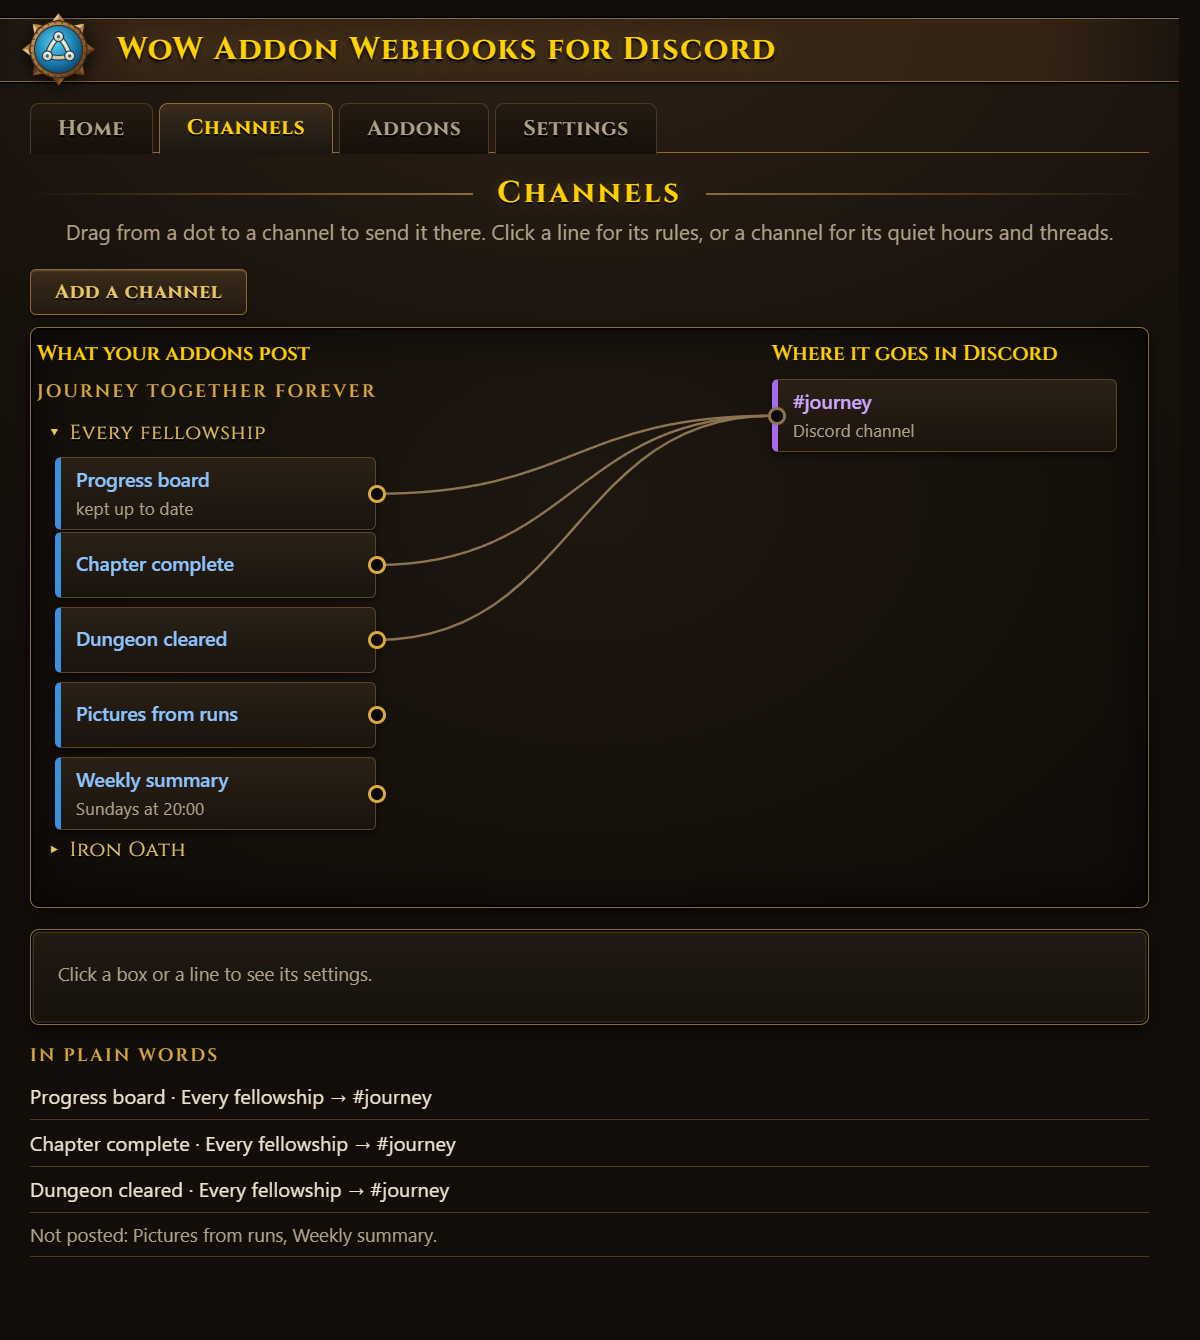
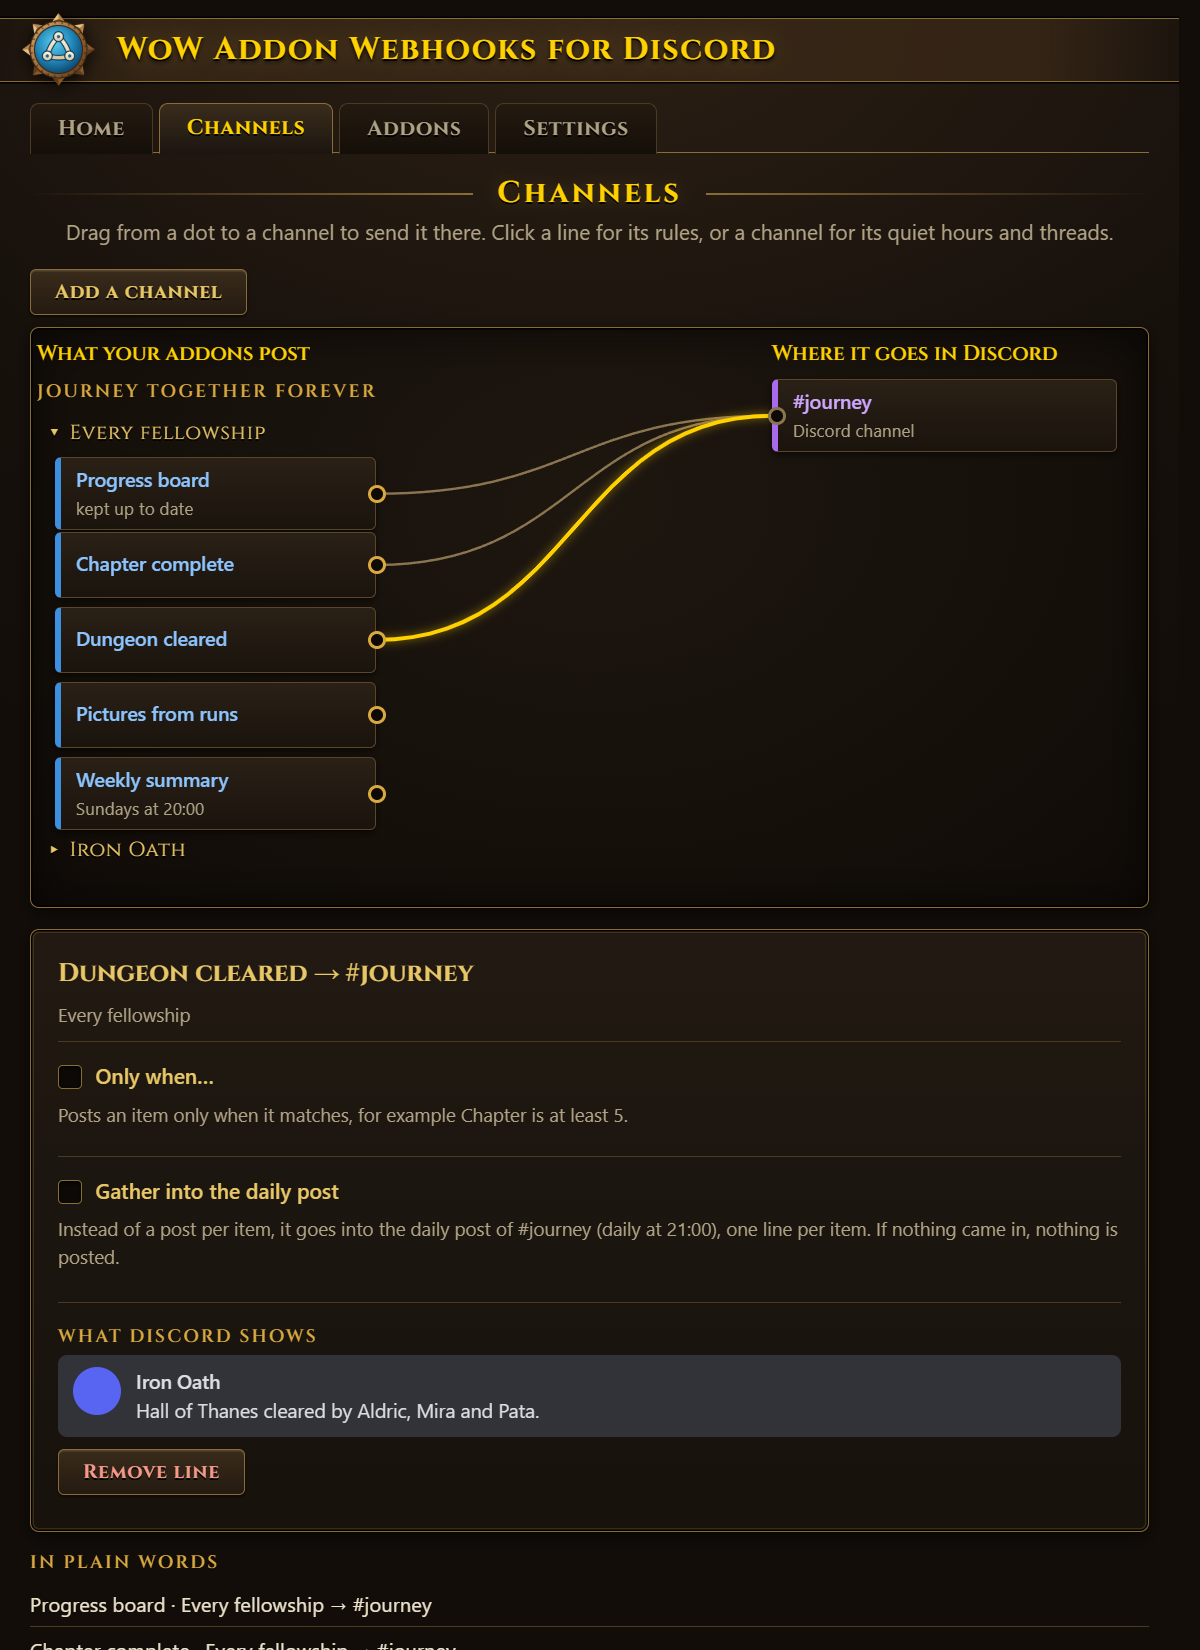
WoW Addon Webhooks for Discord 0.1.4

Changed region(s): [[0.0, 0.0, 0.9558, 1.0], [0.2775, 0.5813, 0.4008, 0.6119], [0.3083, 0.5201, 0.3392, 0.5507]]

diff --git a/src/main/main.js b/src/main/main.js
@@ -390,15 +390,6 @@ function pluginsView(list) {
   });
 }
 
-// The first channel starts with a line from Every {group} for each kind its plugin suggests (SPEC §8, step 3). Later
-// channels start with none: the player draws what they want.
-function linesForFirst(channelId) {
-  if (settings.channels().length !== 1 || settings.lines().length) return;
-  for (const p of used()) {
-    for (const k of p.kinds.filter((x) => x.default)) settings.addLine(flows.kindBox(p.id, flows.EVERY, k.id), flows.channelBox(channelId), now());
-  }
-}
-
 // The places a line may end at: each channel and its threads.
 const placesNow = () => settings.channels().flatMap((c) => [flows.channelBox(c.id), ...c.threads.map((t) => flows.threadBox(c.id, t.id))]);
 // What flows.check needs to know about the boxes.
@@ -575,7 +566,6 @@ function ipc() {
       settings.removeChannel(id); hooks.delete(id);
       return { ok: false, problem: e.code === 'network' ? 'connectOffline' : 'connectRefused' };
     }
-    linesForFirst(id);
     return { ok: true, id, name: settings.channels().find((c) => c.id === id).name };
   });
   ipcMain.handle('renameChannel', (_e, id, name) => ({ ok: settings.rename(str(id, 64), str(name, 200)) }));

diff --git a/src/renderer/flow-editor.js b/src/renderer/flow-editor.js
@@ -113,8 +113,11 @@ window.createFlowEditor = function (deps) {
         y += 28;
         if (!open) continue;
         for (const kind of p.kinds) {
-          boxes.push({ id: kindBox(p.id, gid, kind.id), type: 'kind', x: 16, y, w: treeW - 16, title: kind.name,
-            sub: kind.type === 'kept' ? T.kept : kind.weekly ? T.weeklyMade : null, help: kind.help });
+          // What the addon suggests (its default) is marked until it has a line: the player draws it (SPEC §8, step 3).
+          const id = kindBox(p.id, gid, kind.id);
+          const subs = [kind.type === 'kept' ? T.kept : kind.weekly ? T.weeklyMade : null,
+            kind.default && !lines.some((l) => l.from === id) ? T.suggested : null].filter(Boolean);
+          boxes.push({ id, type: 'kind', x: 16, y, w: treeW - 16, title: kind.name, sub: subs.join(' · ') || null, help: kind.help });
           y += 50;
         }
       }

diff --git a/src/renderer/index.html b/src/renderer/index.html
@@ -45,9 +45,10 @@
   <section class="card step" data-step="3">
     <h2 data-t="s3Title"></h2>
     <p data-t="s3Text"></p>
+    <ol class="how"><li id="s3How1"></li><li data-t="s3How2"></li><li data-t="s3How3"></li></ol>
     <div id="s3Editor"></div>
     <p id="s3Msg" hidden></p>
-    <div class="nav"><button id="s3Back" data-t="back"></button><span class="grow"></span><button id="finish" class="primary" data-t="finish"></button></div>
+    <div class="nav"><button id="s3Back" data-t="back"></button><span class="grow hint" id="s3Need" data-t="s3Need"></span><button id="finish" class="primary" data-t="finish"></button></div>
   </section>
 </main>
 

diff --git a/src/renderer/renderer.js b/src/renderer/renderer.js
@@ -228,6 +228,9 @@
       pics.append(...inUse().flatMap(reachedPreviews));
       editor.draw($('s3Editor'), state, { extra: pics });
       $('finish').disabled = !state.flows.anyRoute;
+      const first = inUse()[0];
+      $('s3How1').textContent = fill(T.s3How1, { every: fill(T.everyGroup, { group: first ? first.group : '' }).trim() });
+      $('s3Need').style.visibility = state.flows.anyRoute ? 'hidden' : 'visible';
     }
   }
 

diff --git a/docs/SPEC.md b/docs/SPEC.md
@@ -81,7 +81,8 @@ Decided 29 Oct 2026: the player draws where posts go, as flows. Built in milesto
 the flows became **two columns** (W5): what an addon posts on the left, where it goes in Discord on the right, and
 the rules on the lines. The player's words: "Should only be mapping between addon information => webhook with its
 mapped text channel"; step boxes in between read as a second process. A new player should find it easy at once:
-find the addon, paste one webhook, press Post.
+find the addon, paste one webhook, draw where posts go, press Post. (30 Oct 2026: nothing is drawn by itself any
+more; the player chooses Every {group} or one group for each line, guided, see §8 step 3.)
 
 ### 5.1 Flows
 The player decides what goes where by drawing lines on the **Channels** page (§8), from what an addon posts to where
@@ -246,8 +247,15 @@ group was saved in, and turns it into a PNG.
    - "Keep this link to yourself: anyone who has it can post in that channel. The app keeps it on this computer,
      encrypted."
 3. **Choose what goes where.** The Flows canvas (§5.1) with the channel just connected.
-   - To start, each kind its plugin suggests (`default`) has a line from **Every {group}** to that channel, so most
-     players only press **Post**. "You can change it later under Channels."
+   - It starts with **no lines** (decided 30 Oct 2026: one webhook should not get everything by itself; the player
+     chooses whether a post goes for every group or one). "Nothing goes to Discord until you draw a line: from what an
+     addon posts, on the left, to a channel, on the right. You can change it later under Channels." Then three
+     numbered lines: "Choose whose posts: Every fellowship sends them for all, now and later. Open one by its name
+     to send only its own." (the first plugin's group word), "Drag from a post's dot to your channel. Start with the
+     ones marked suggested, such as a progress board.", "Click a line to add rules to it, such as a role to mention.
+     Then press Post."
+   - Kinds the plugin suggests (`default`) say "suggested" under their name until they have a line.
+   - **Post** waits for a line: "Draw at least one line to post." beside it until then.
    - **Add a channel** connects another without leaving the step; lines and their rules work as on the Channels page.
    - Kept kinds with a picture show **What Discord shows**.
    - **Post** posts the kept messages and opens Home: "Posted. Pin the board in Discord so everyone finds it."

diff --git a/docs/PLUGINS.md b/docs/PLUGINS.md
@@ -64,7 +64,7 @@ Ship the folder in your addon's package. WoW ignores it; the app finds it in eve
 | `savedVariables` | The file name in `WTF\Account\<ACCOUNT>\SavedVariables\` without `.lua` (the account-wide file; per-character files are not read). WoW names it after the addon's folder: letters, digits, `_` and `-`. |
 | `outbox` | Where the posts are in that file: the global's name and the keys, joined with `.`. Only this table is read. |
 | `group` | The word for what a channel follows ("fellowship", "guild"), used in the window. |
-| `kinds` | The kinds of post. `type`: `kept` (one message kept up to date) or `news` (a new message per item). `default`: wired to the first channel during setup (`docs/SPEC.md` §8). `mention`: the player may have a line from it mention a role (`docs/SPEC.md` §5.2). At most 12. |
+| `kinds` | The kinds of post. `type`: `kept` (one message kept up to date) or `news` (a new message per item). `default`: marked "suggested" for the player, who draws the lines (nothing is wired by itself; `docs/SPEC.md` §8). `mention`: the player may have a line from it mention a role (`docs/SPEC.md` §5.2). At most 12. |
 | `templates` | A kept kind (or a news kind) whose picture the app draws from an HTML page (§6). |
 | `empty` | Optional: what the window says when the outbox is there but has no groups, such as why and what to do ("None of your characters is in a fellowship…"). At most 200 characters. Without it the app says the addon has nothing to post yet. |
 | `weekly` | Optional: the plugin offers a weekly summary (§5), with its texts. `{group}`, `{name}`, `{from}`, `{to}`, `{list}` are filled in by the app. |

diff --git a/docs/MANUAL.md b/docs/MANUAL.md
@@ -55,7 +55,13 @@ encrypted, and never shows it to an addon or plugin.
 
 ### 3. Choose what goes where
 On the left, what your addons post; on the right, your Discord channels. Each line sends one kind of post to one
-channel. The lines your addons suggest are drawn already, so most players just press **Post**.
+channel. Nothing goes to Discord until you draw a line:
+
+1. **Choose whose posts.** **Every fellowship** sends them for all your fellowships, now and later. Open one by its
+   name (here **Iron Oath**) to send only its own.
+2. **Drag from a post's dot to your channel.** The ones the addon suggests say *suggested*; the progress board is a
+   good start.
+3. **Click a line** to add rules to it, such as a role to mention.
 
 ![Step 3: Choose what goes where](manual/03-what-goes-where.png)
 

diff --git a/CHANGELOG.md b/CHANGELOG.md
@@ -2,6 +2,11 @@
 
 ## Unreleased
 
+## 0.1.4 (30 Oct 2026)
+- Setup no longer sends anything to the first channel by itself: step 3 starts with no lines and guides the player
+  to draw them (for every fellowship, or one), with the addon's suggestions marked "suggested". **Post** waits for
+  a line.
+
 ## 0.1.3 (30 Oct 2026)
 - Electron 44.9.1 (was 44.7.2), for a security fix: it stops trusting the compromised eMudhra intermediate
   certificates (GHSA-jr5w-w6x2-84p9).
